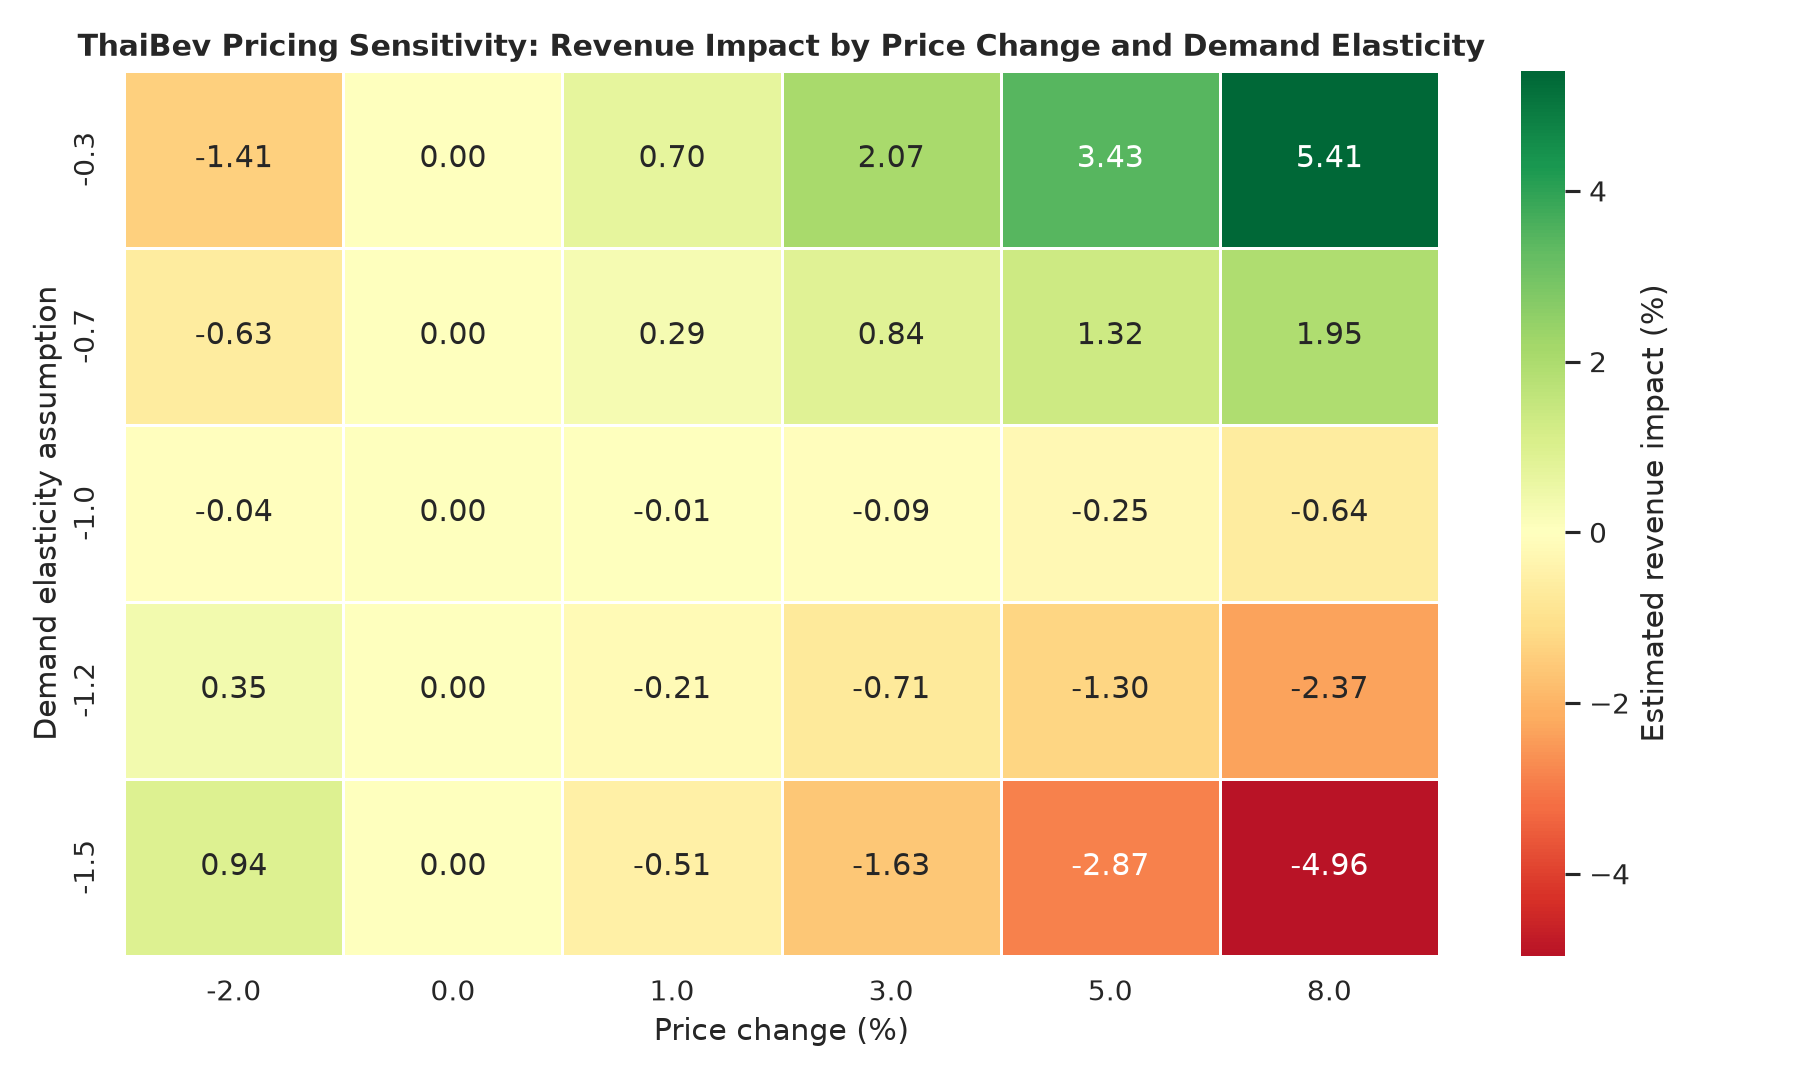
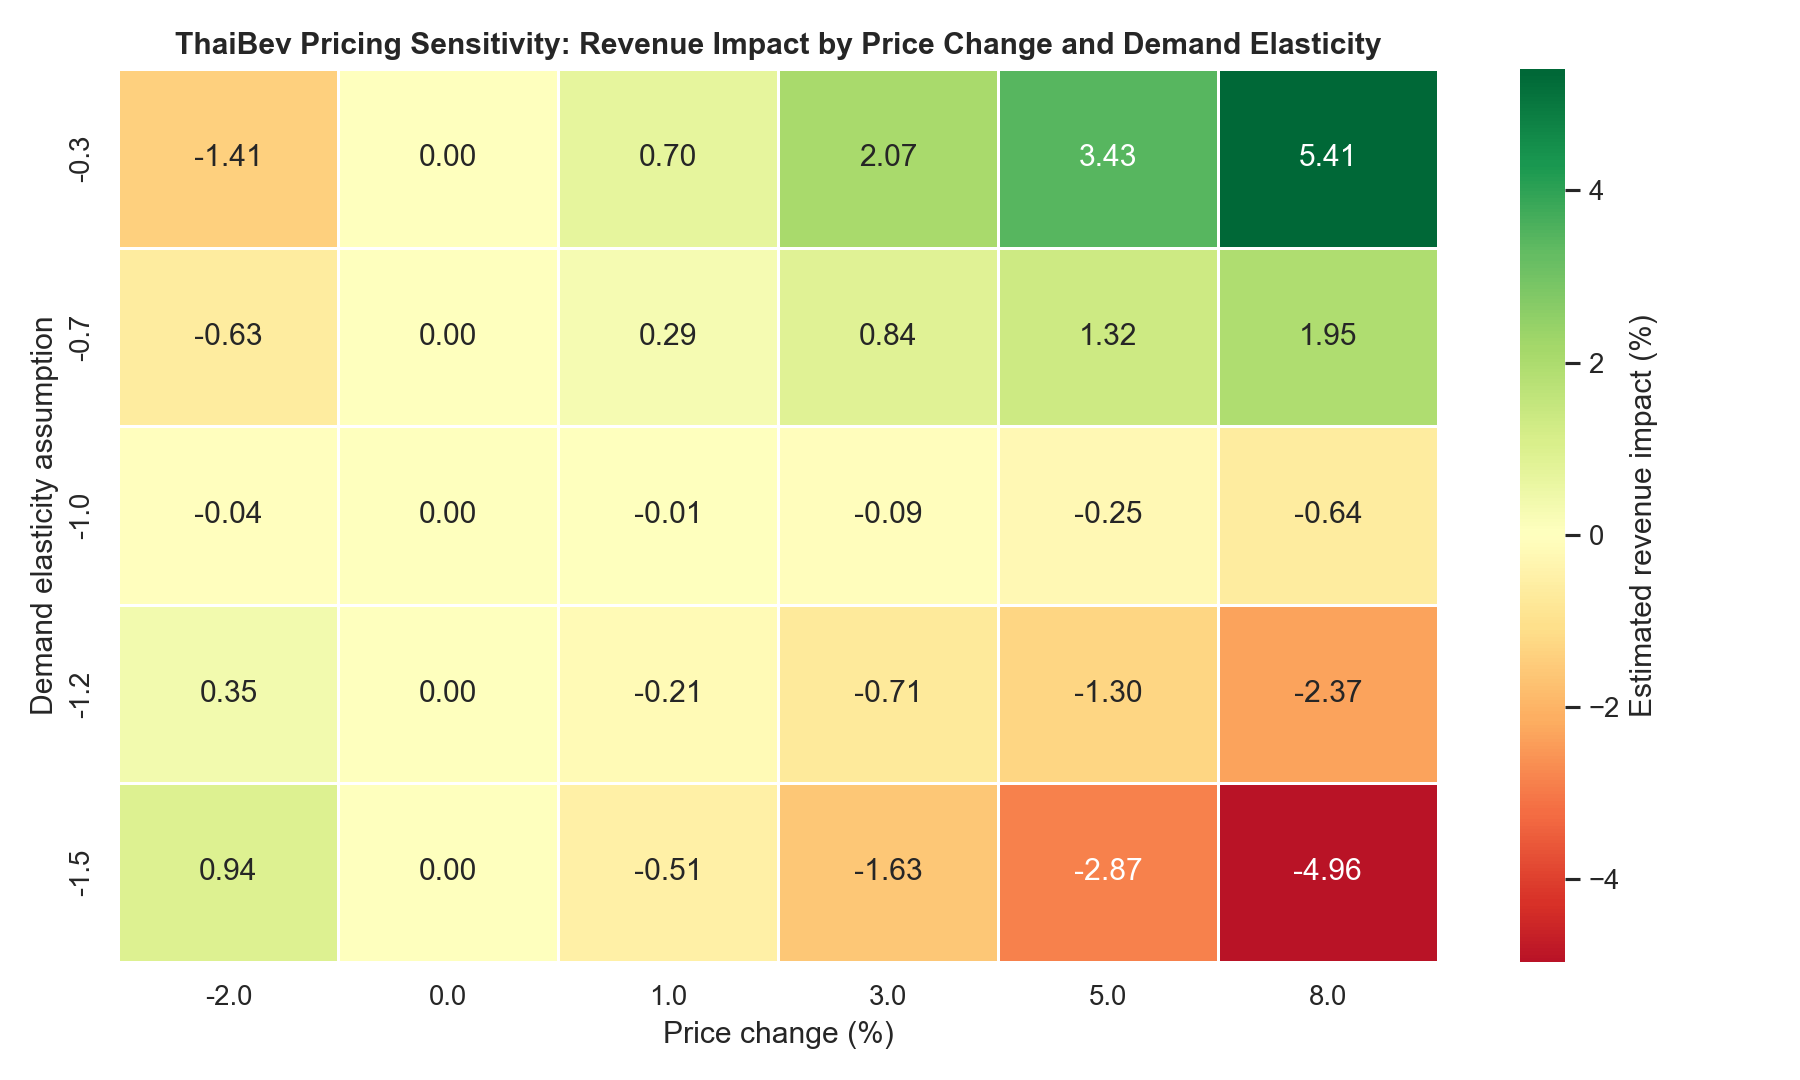
update

diff --git a/pricing_revenue_scenario.py b/pricing_revenue_scenario.py
@@ -8,6 +8,8 @@ prices, units, margins, or customer/channel mix.
 
 from pathlib import Path
 
+import matplotlib
+matplotlib.use("Agg")
 import matplotlib.pyplot as plt
 import numpy as np
 import pandas as pd
